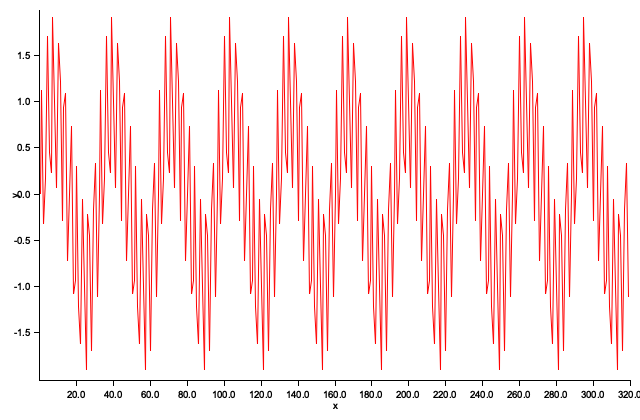
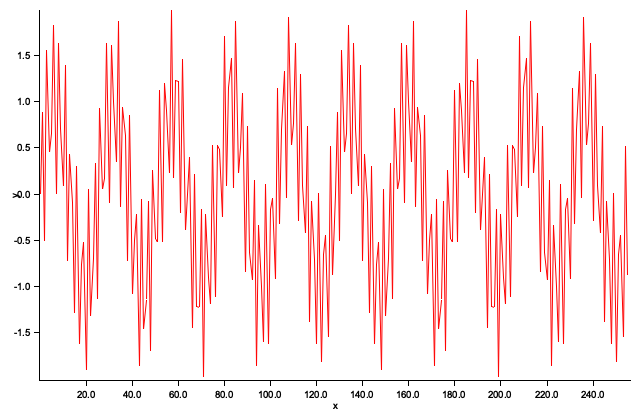
Add 2-radix Cooley-Tukey Algorithm

diff --git a/src/lib.rs b/src/lib.rs
@@ -30,7 +30,7 @@ pub fn idft(spectrum: &[Complex64]) -> Vec<Complex64> {
     let mut result = vec![Complex64::new(0.0, 0.0); n];
     for j in 0..n {
         for k in 0..n {
-            let angle = 2.0 * PI * (j as f64 * k as f64) / (n as f64);
+            let angle = 2.0 * PI * (j * k) as f64 / (n as f64);
             let c = Complex64::new(angle.cos(), angle.sin());
             result[j] += spectrum[k] * c;
         }
@@ -84,7 +84,10 @@ pub fn absolute_spectrum(spectrum: &[Complex64]) -> Vec<f64> {
     spectrum.iter().map(|x| x.norm()).collect::<Vec<_>>()
 }
 
-pub fn plot_spectrum(spectrum: &[Complex64]) -> Result<(), Box<dyn std::error::Error>> {
+pub fn plot_spectrum(
+    spectrum: &[Complex64],
+    title: &str,
+) -> Result<(), Box<dyn std::error::Error>> {
     let n = spectrum.len();
     // we are only in the absolute value of the spectrum
     let mut abs_spectrum = absolute_spectrum(spectrum);
@@ -94,7 +97,50 @@ pub fn plot_spectrum(spectrum: &[Complex64]) -> Result<(), Box<dyn std::error::E
     abs_spectrum = abs_spectrum.into_iter().take(n / 2).collect::<Vec<_>>();
     abs_spectrum.reverse();
 
-    plot_signal(&abs_spectrum, "spectrum.png", -10.0..300.0)
+    plot_signal(&abs_spectrum, title, -10.0..300.0)
+}
+
+pub fn fft_step(signal: &[f64], stride: usize) -> Vec<Complex64> {
+    let n = signal.len();
+    if n == 1 {
+        return vec![Complex64::new(signal[0], 0.0)];
+    } else {
+        let mut even = vec![];
+        even.reserve(n / 2);
+        let mut odd = vec![];
+        odd.reserve(n / 2);
+        for i in 0..n {
+            if i % 2 == 0 {
+                even.push(signal[i]);
+            } else {
+                odd.push(signal[i]);
+            }
+        }
+
+        let even_parts = fft_step(&even, stride * 2);
+        let odd_parts = fft_step(&odd, stride * 2);
+        let mut result = vec![Complex64::new(0.0, 0.0); n];
+        for k in 0..n / 2 {
+            let angle = 2.0 * PI * (k as f64) / (n as f64);
+            let c = Complex64::new(angle.cos(), -angle.sin());
+            result[k] = even_parts[k] + c * odd_parts[k];
+            result[k + n / 2] = even_parts[k] - c * odd_parts[k];
+        }
+        result
+    }
+}
+
+pub fn fft(signal: &[f64]) -> Vec<Complex64> {
+    let n = signal.len();
+    let mut signal = signal.to_vec();
+    if !n.is_power_of_two() {
+        // extend periodically
+        signal.resize(n.next_power_of_two(), 0.0);
+        for i in n..n.next_power_of_two() {
+            signal[i] = signal[i % n];
+        }
+    }
+    fft_step(&signal, 1)
 }
 
 #[cfg(test)]
@@ -111,8 +157,24 @@ mod tests {
     }
 
     #[test]
-    fn example_plot() {
-        let n = 320;
+    fn example_plot_fft() {
+        let n = 256;
+        let mut signal = vec![0.0; n];
+
+        let freq_1 = 10.0;
+        let freq_2 = 100.0;
+        for i in 0..n {
+            signal[i] += f64::sin(2.0 * PI * freq_1 * (i as f64) / (n as f64))
+                + f64::sin(2.0 * PI * freq_2 * (i as f64) / (n as f64));
+        }
+
+        let spectrum = fft(&signal);
+        assert!(plot_spectrum(&spectrum, "spectrum_fft.png").is_ok());
+    }
+
+    #[test]
+    fn example_plot_dft() {
+        let n = 256;
         let mut signal = vec![0.0; n];
 
         let freq_1 = 10.0;
@@ -125,7 +187,7 @@ mod tests {
         assert!(plot_signal(&signal, "signal.png", -2.0..2.0).is_ok());
 
         let spectrum = dft_real(&signal);
-        assert!(plot_spectrum(&spectrum).is_ok());
+        assert!(plot_spectrum(&spectrum, "spectrum_dft.png").is_ok());
     }
 
     #[test]
@@ -203,5 +265,4 @@ mod tests {
         let signal = idft(&spectrum);
         compare_vecs(&signal, &f);
     }
-
 }
